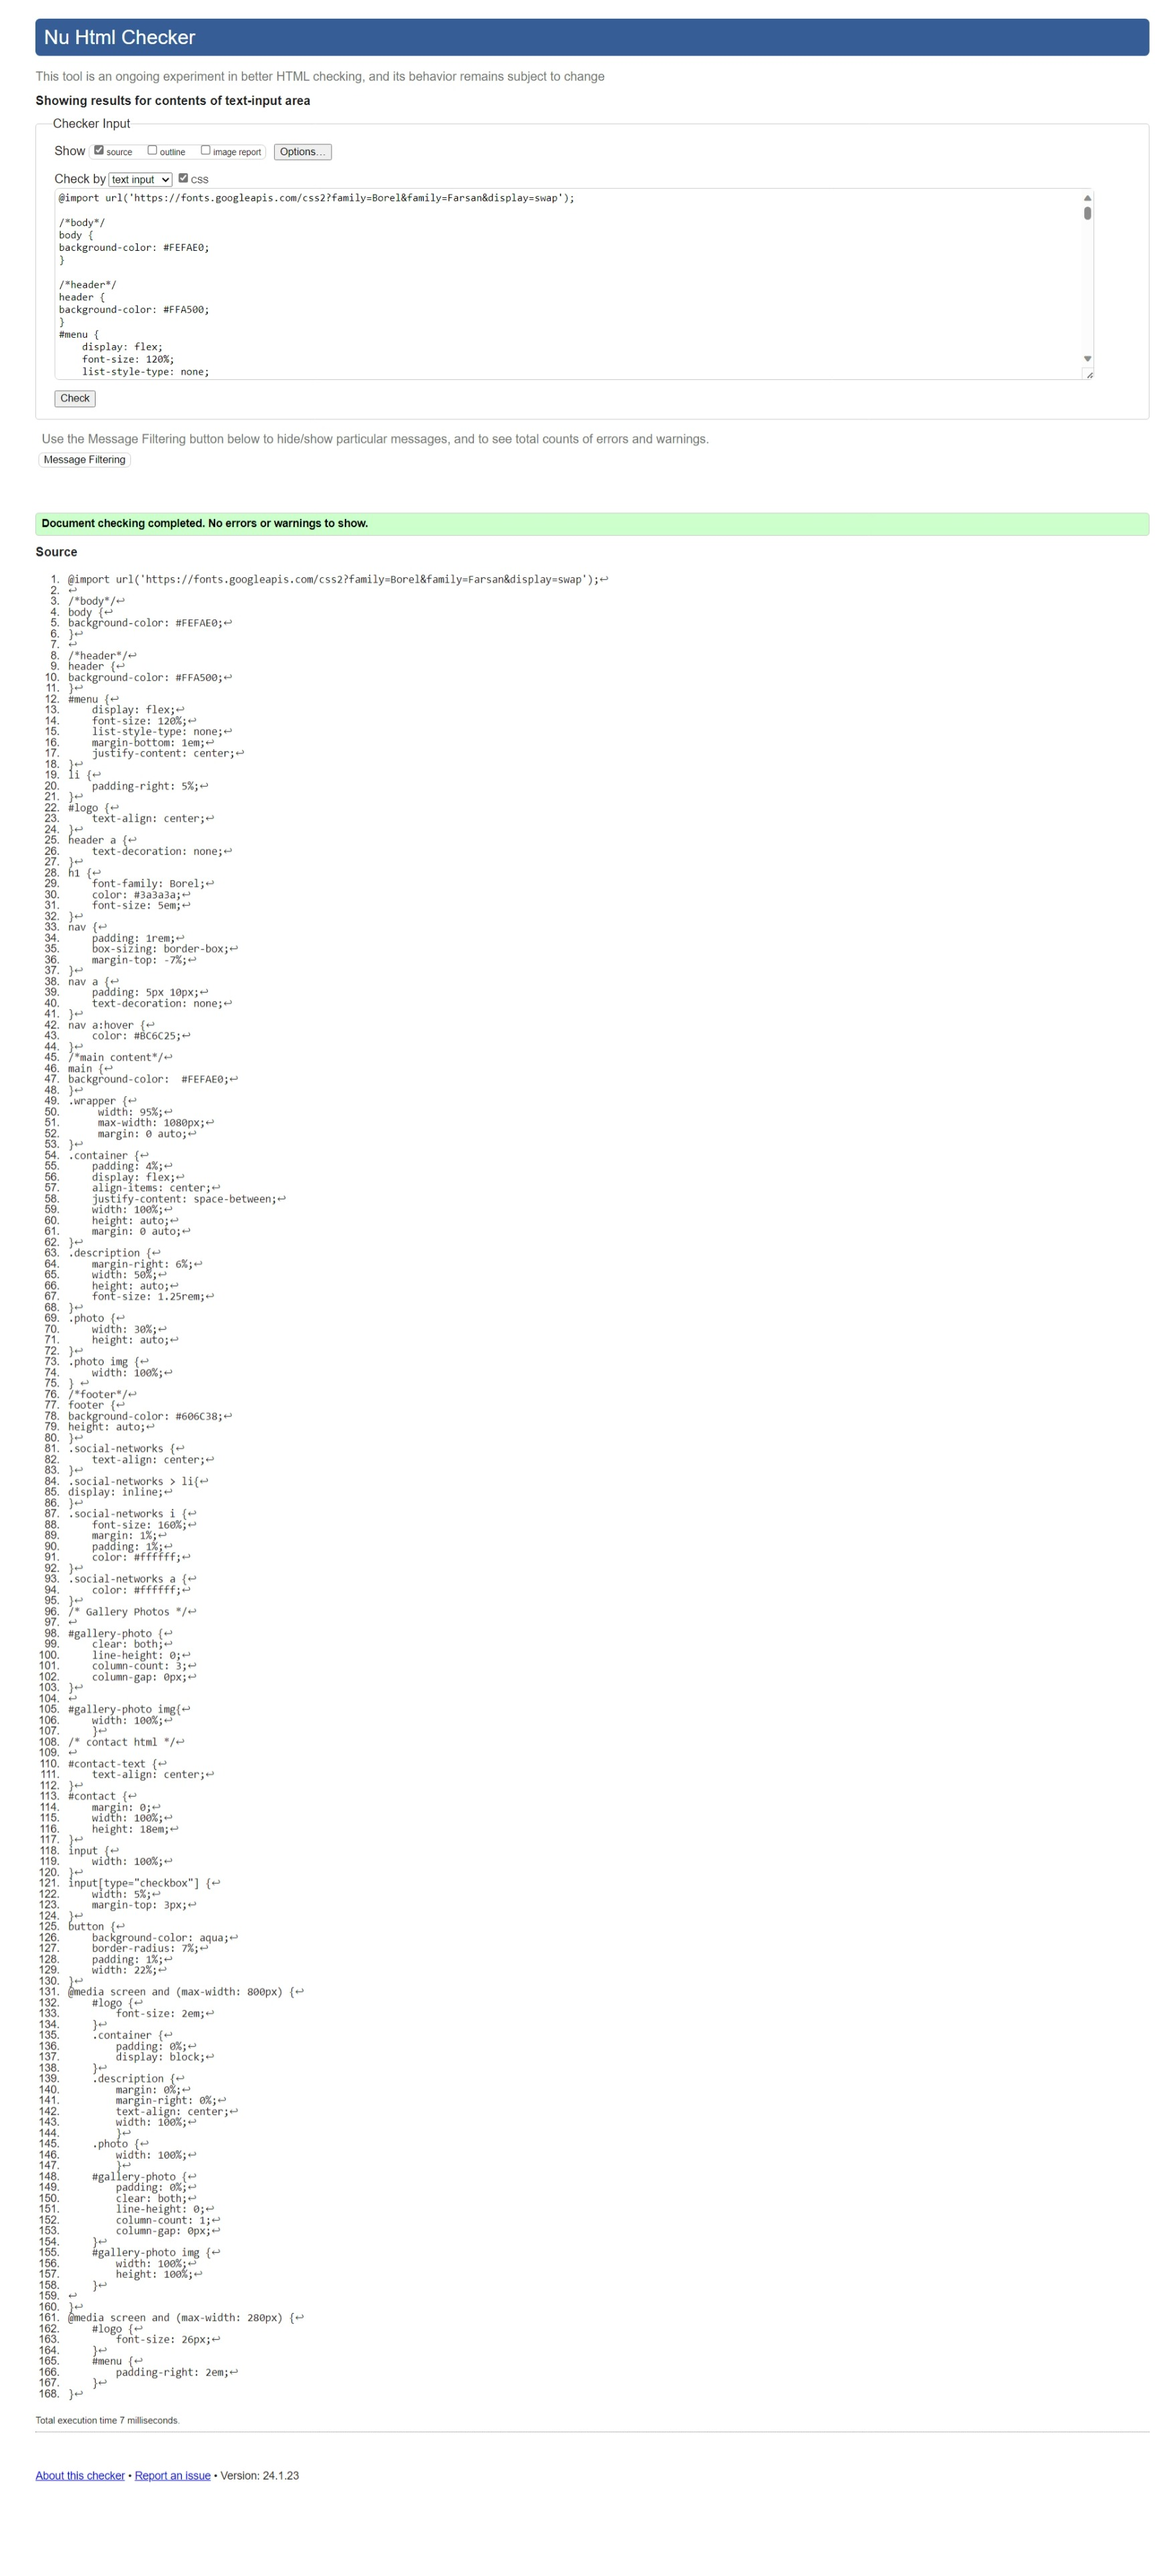
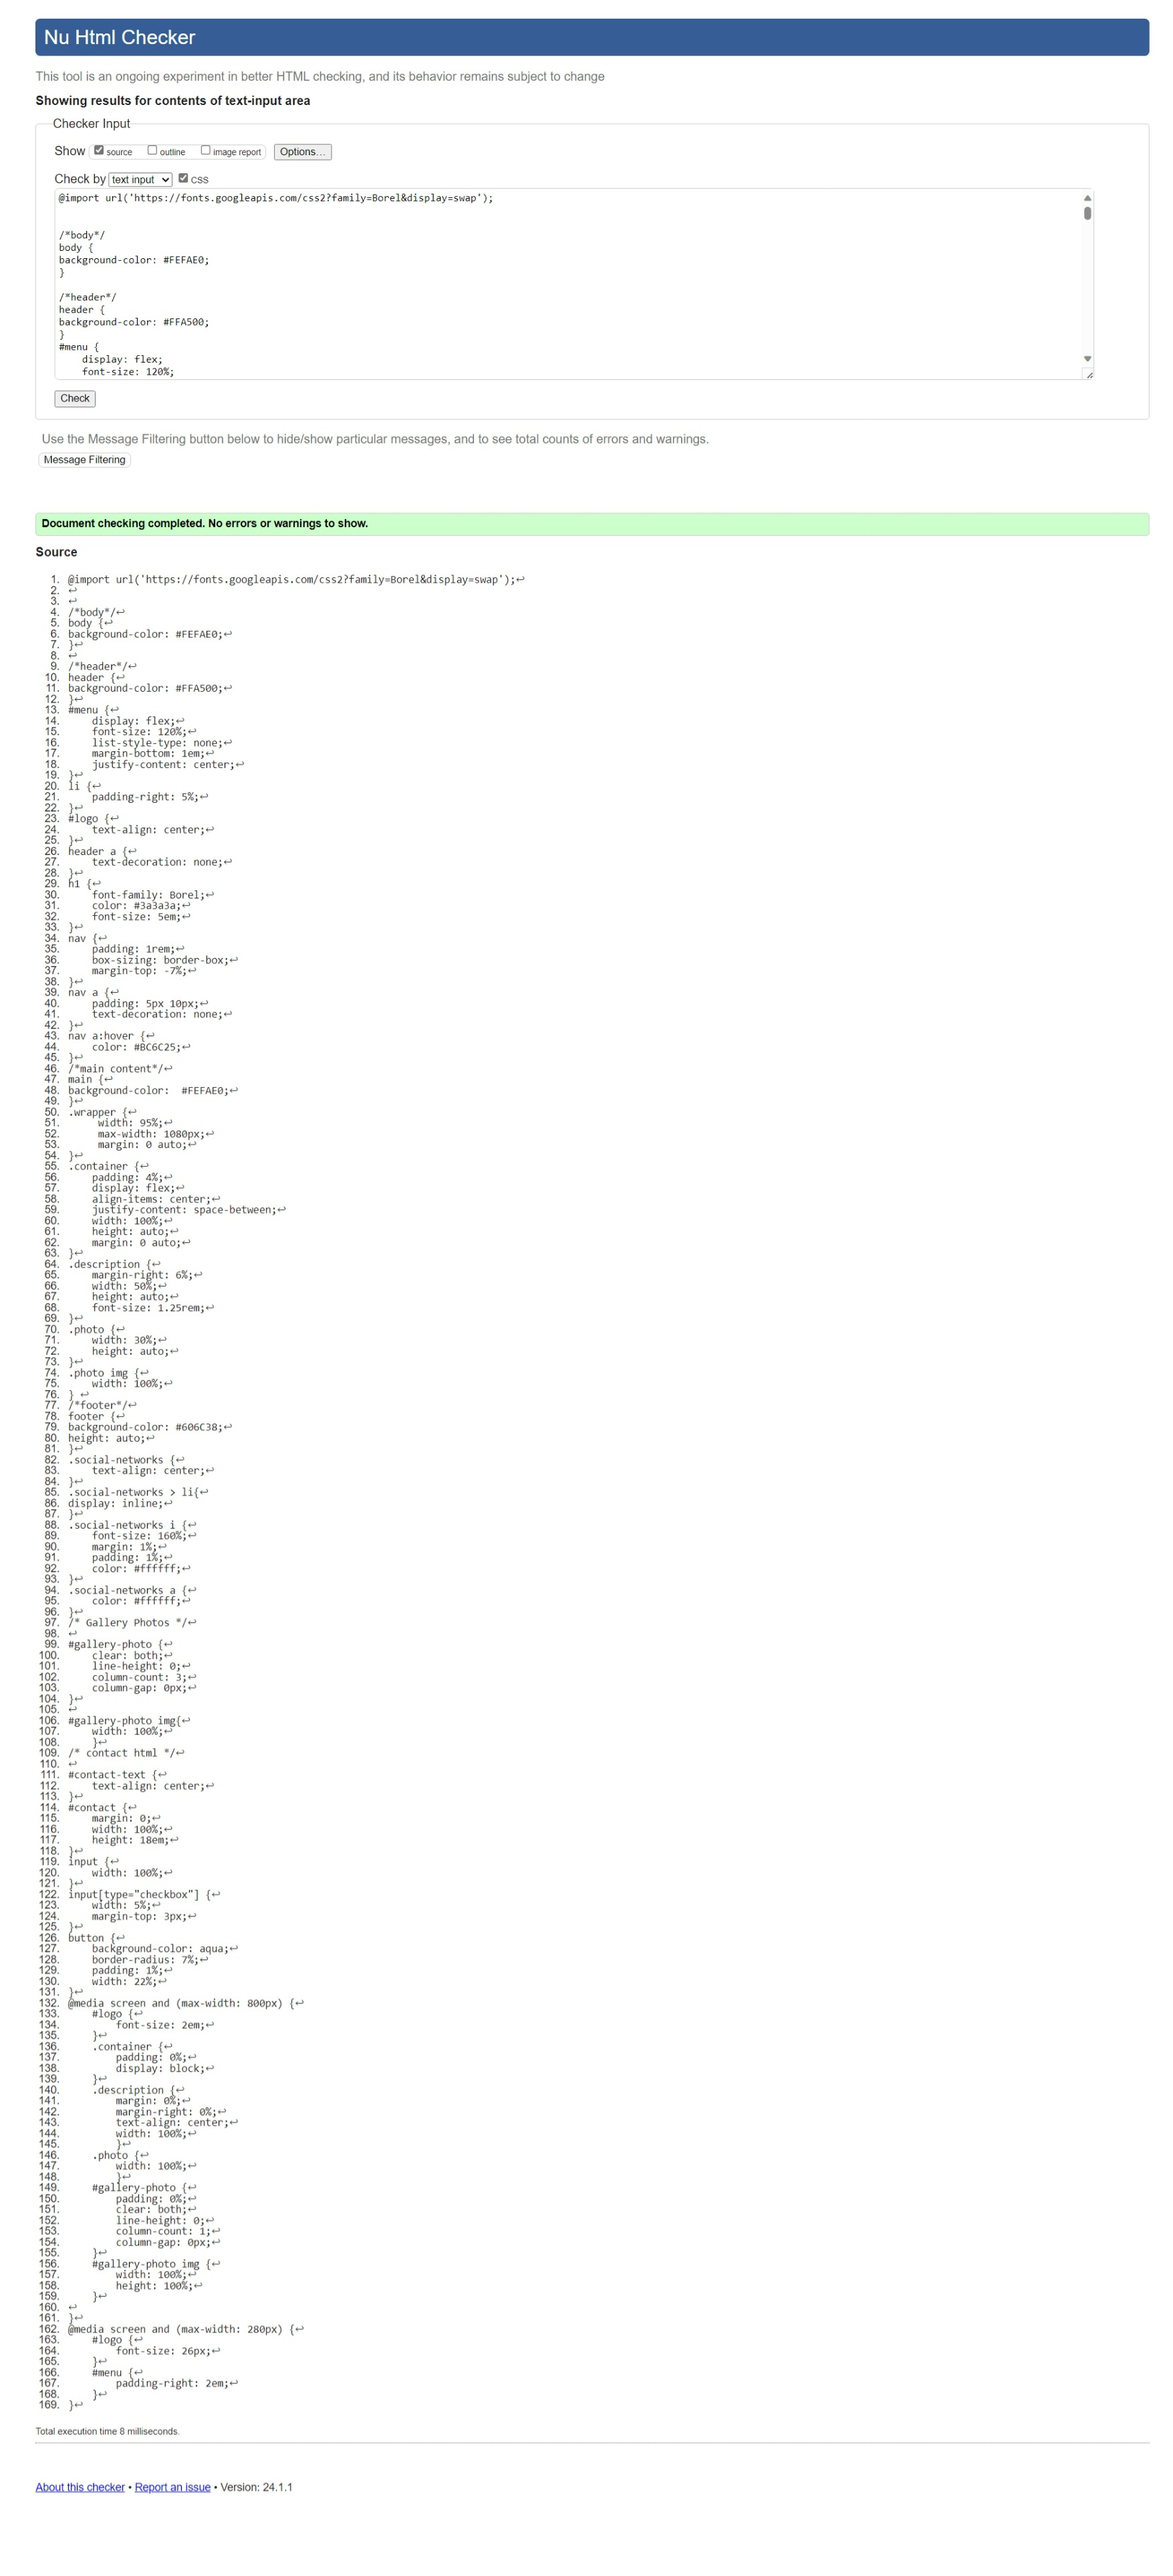
removed farsan google-font

Changed region(s): [[0.0308, 0.031, 0.3077, 0.9311], [0.2462, 0.031, 0.2769, 0.0621], [0.1846, 0.031, 0.2154, 0.0621]]

diff --git a/assets/css/style.css b/assets/css/style.css
@@ -1,4 +1,5 @@
-@import url('https://fonts.googleapis.com/css2?family=Borel&family=Farsan&display=swap');
+@import url('https://fonts.googleapis.com/css2?family=Borel&display=swap');
+
 
 /*body*/
 body {

diff --git a/README.md b/README.md
@@ -65,7 +65,6 @@ Second time visitors experience.
 ## Typography:
 
 - Borel font has been chosen because of the old-fashioned handwritten style that suits the subject of the website.
-The Farsan font has been chosen because of its clarity and not too harsh style
 
 ## Design:
 
